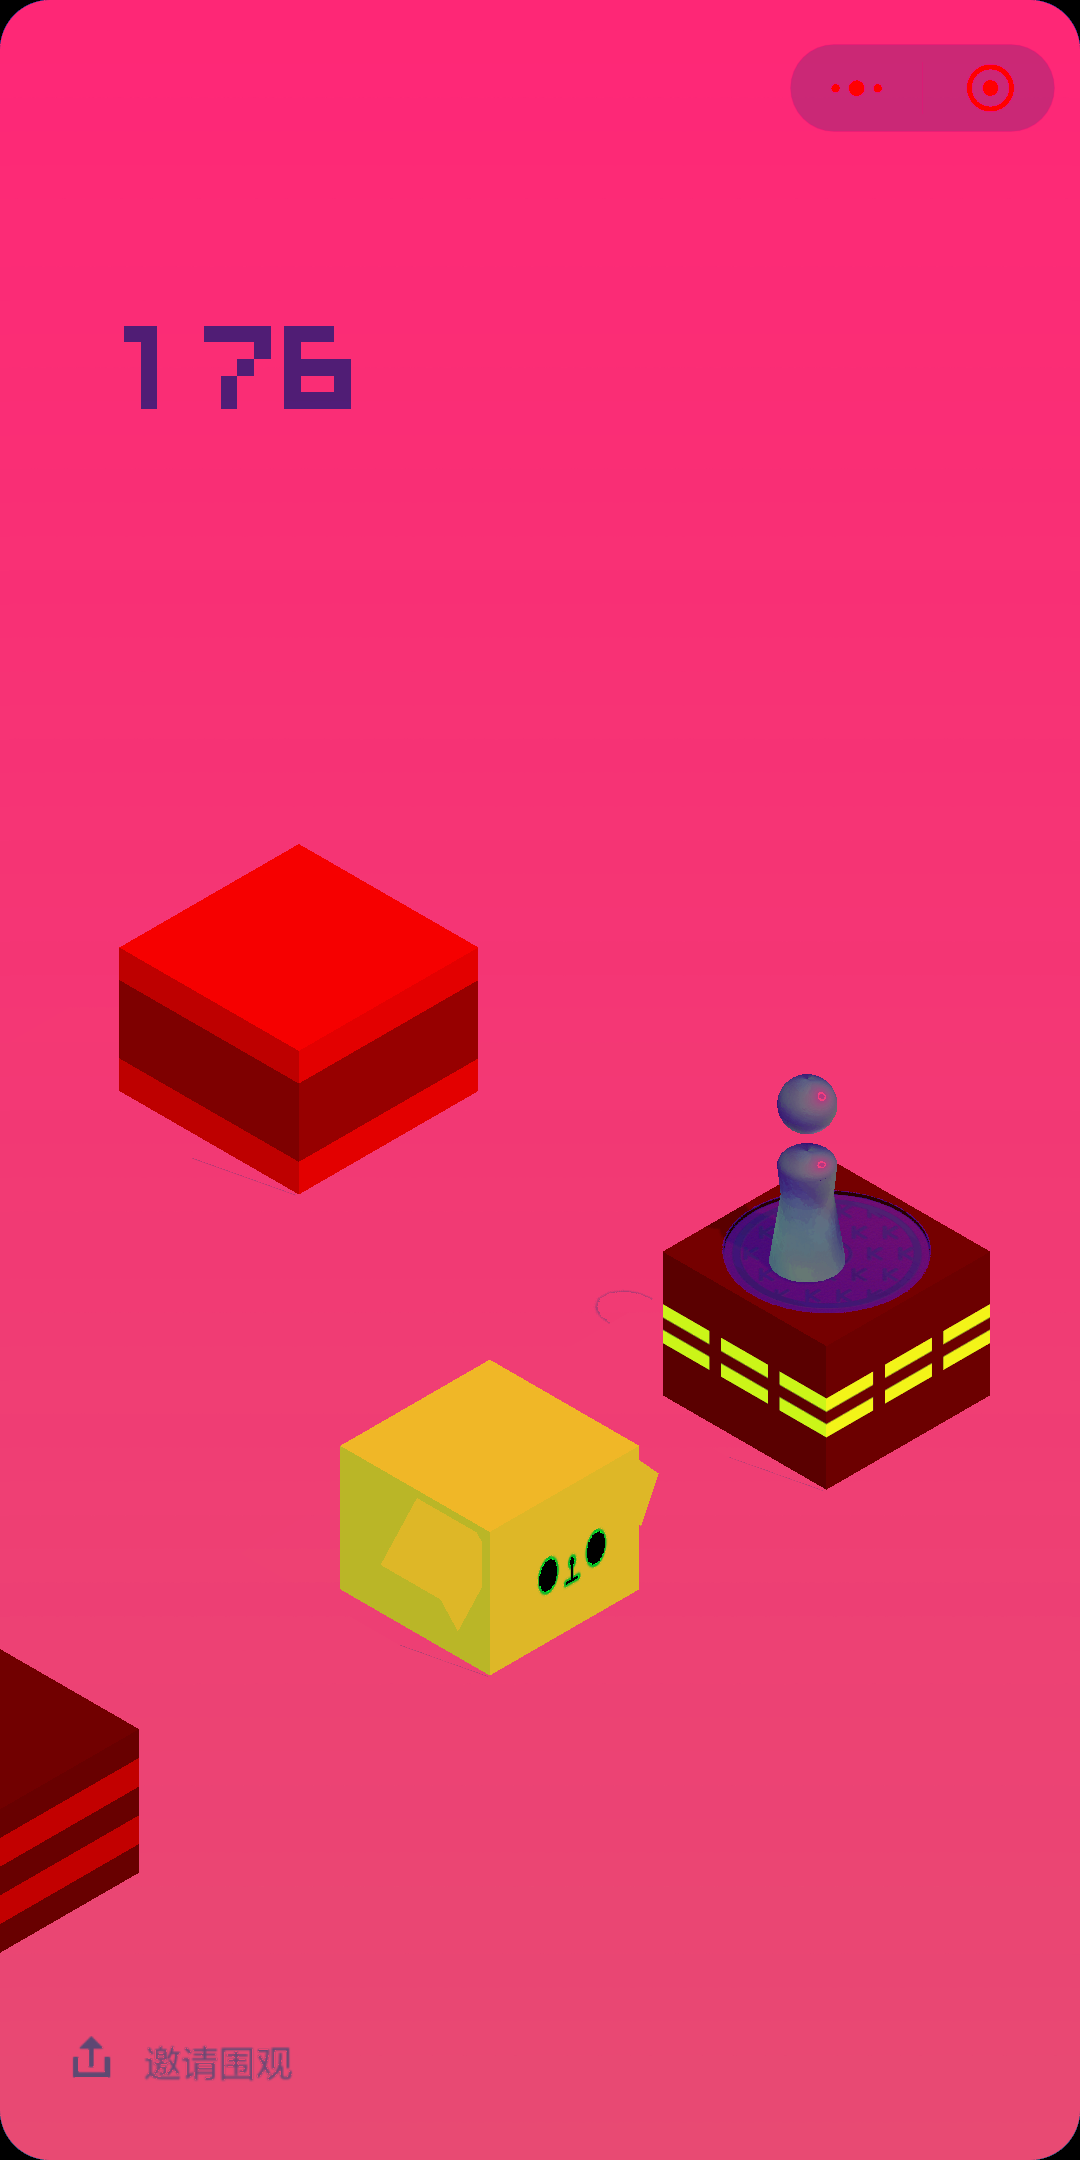
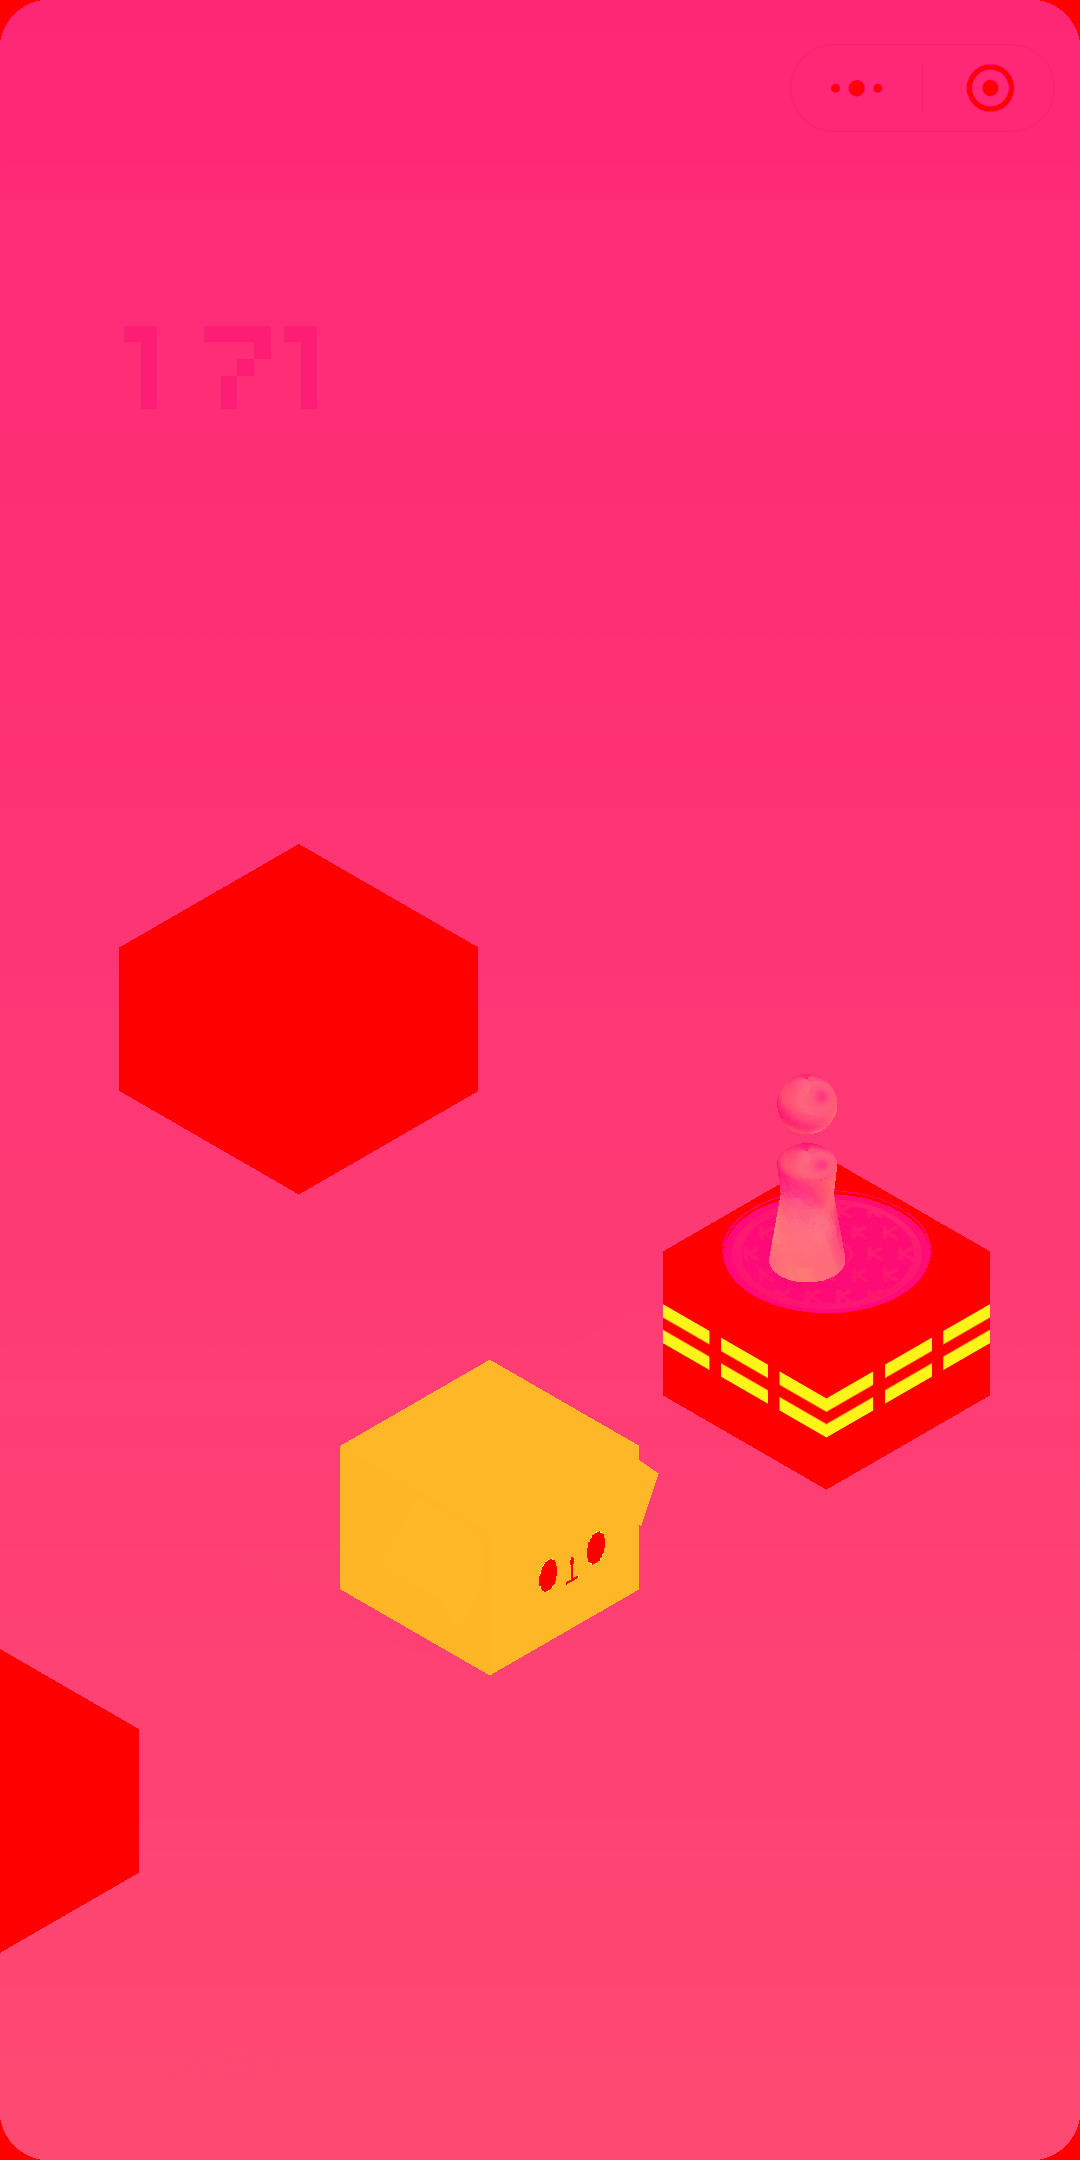
None

diff --git a/DQN.py b/DQN.py
@@ -1,73 +1,51 @@
 import cv2
 import numpy as np
-# import torch
-# import keras
 from PIL import Image
 
-pic1 = np.asarray(Image.open('./train_data/091749.png'))
-pic2 = np.asarray(Image.open('./train_data/091755.png'))
-y, x = pic1.shape[:2]
 
-del_shade = cv2.cvtColor(pic1, cv2.COLOR_RGB2HSV)  # 转成HSV
+def save_pic(pic,n):
+    pic1 = pic
+    del_shade = cv2.cvtColor(pic1, cv2.COLOR_RGB2HSV)  # 转成HSV
 
-i = 0
-for r in del_shade:
-    # 由于颜色是从上到下渐变的,而同一行的背景色不变,因此对每一行求众数,即背景色
-    # 通过观察,阴影的明度(V)大概是背景的0.68~0.72倍,通过这个方法去除阴影
-    # 这段应该能修一下
-    temp = np.argmax(np.bincount(r[:, 2]))
-    k = 0
-    for j in r[:, 2]:
-        if temp * 0.72 >= j >= temp * 0.68:
-            del_shade[i][k][2] = temp
-        k += 1
-    i += 1
+    i = 0
+    for r in del_shade:
+        # 由于颜色是从上到下渐变的,而同一行的背景色不变,因此对每一行求众数,即背景色
+        # 通过观察,阴影的明度(V)大概是背景的0.68~0.72倍,通过这个方法去除阴影
+        # 这段应该能修一下
+        temp = np.argmax(np.bincount(r[:, 2]))
+        k = 0
+        del_shade[:, :, 2] = np.where((temp * 0.71 < r[:, 2]) & (r[:, 2] < temp * 0.69), r[:, 2], temp)
+        '''
+        # 只是之前的代码,和上面那一句难道不等价吗?
+        for j in r[:, 2]:
+            if temp * 0.71 >= j >= temp * 0.69:
+                del_shade[i][k][2] = temp
+            k += 1
+        i += 1
+        '''
+    gray = cv2.cvtColor(del_shade, cv2.COLOR_HSV2RGB)
+    gray = cv2.cvtColor(gray, cv2.COLOR_RGB2GRAY)
+    '''
+    # 这是之前用于 将上下相连的颜色平均,为去除渐变背景做准备 的
+    ke1 = np.array([[0, 0, 1, 0, 0],
+                    [0, 0, 1, 0, 0],
+                    [0, 0, -4, 0, 0],
+                    [0, 0, 1, 0, 0],
+                    [0, 0, 1, 0, 0]])
+    '''
+    ke1 = np.array([[0,-1,0],
+                    [-1,4,-1],
+                    [0,-1,0]])
 
-cv2.imwrite('1del_shade.png', del_shade)
+    filter2D = cv2.filter2D(gray, -1, ke1)
+    filter2D = cv2.dilate(filter2D, None, iterations=1)  # 膨胀
 
-gray = cv2.cvtColor(del_shade, cv2.COLOR_HSV2RGB)
-gray = cv2.cvtColor(gray, cv2.COLOR_RGB2GRAY)
-cv2.imwrite('2gray.png', gray)
+    _, filter2D = cv2.threshold(filter2D, 10, 255, cv2.THRESH_BINARY)  # 经测定 阈值10就差不多了
+    filter2D = Image.fromarray(filter2D)
+    filter2D = filter2D.resize((108, 192), Image.ANTIALIAS)
+    filter2D = filter2D.crop((4, 50, 104, 150))
+    filter2D.save('D:\\Documents\\GitHub\\LetsJump\\train_data\\%s.png' % n)
 
-ke1 = np.array([[0, 0, 1, 0, 0],
-                [0, 0, 1, 0, 0],
-                [0, 0, -4, 0, 0],
-                [0, 0, 1, 0, 0],
-                [0, 0, 1, 0, 0]])
-# 通过这个卷积核,将上下相连的颜色平均,为去除渐变背景做准备
-filter2D = cv2.filter2D(gray, -1, ke1)
 
-filter2D = cv2.dilate(filter2D, None, iterations=1)  # 膨胀
-_, filter2D = cv2.threshold(filter2D, 10, 255, cv2.THRESH_BINARY)  # 经测定 阈值10就差不多了
-
-cv2.imwrite('3filter2D.png', filter2D)
-
-image, contours, _ = cv2.findContours(filter2D, cv2.RETR_EXTERNAL, cv2.CHAIN_APPROX_NONE)  # 找轮廓
-print('contours:', len(contours))
-'''
-# 这一段原来是用来寻找最大面积的最小轮廓矩形
-
-bigest_area = 0
-bigest = contours[0]
-for c in contours:
-    x, y, w, h = cv2.boundingRect(c)
-    area = w * h
-    if area>bigest_area:
-        bigest_area = area
-        ret = cv2.minAreaRect(c)
-        box = cv2.boxPoints(ret)
-        box = np.int0(box)
-        area = w * h
-        bigest = [box]
-    ret = cv2.minAreaRect(c)
-    box = cv2.boxPoints(ret)
-    box = np.int0(box)
-    #cv2.drawContours(pic1, [box], -1, (255, 255, 0), 3)
-#cv2.drawContours(pic1, bigest, -1, (255, 255, 0), 3)
-#pic1 = cv2.putText(pic1, str(bigest_area), (x, y), cv2.FONT_HERSHEY_SIMPLEX, 1, (255, 0, 0), 2)
-
-'''
-
-cv2.drawContours(pic1, contours, -1, (128, 128, 128), 2)  # 这一段突然就只能画出来白色的线了
-
-cv2.imwrite('5drawContours.png', pic1)
+if __name__ == 'main':
+    save_pic(cv2.imread('0.png'), 0)

diff --git a/wechat_jump_auto.py b/wechat_jump_auto.py
@@ -9,7 +9,8 @@ from PIL import Image, ImageDraw
 import random
 import json
 import re
-
+import DQN
+import numpy as np
 
 # === 思路 ===
 # 核心：每次落稳之后截图，根据截图算出棋子的坐标和下一个块顶面的中点坐标，
@@ -333,19 +334,25 @@ def main():
 
     dump_device_info()
     check_adb()
+    n = 0
     while True:
         pull_screenshot()
         im = Image.open('./autojump.png')
         # 获取棋子和 board 的位置
+
         piece_x, piece_y, board_x, board_y = find_piece_and_board(im)
         ts = int(time.time())
         print(ts, piece_x, piece_y, board_x, board_y)
         set_button_position(im)
         jump(math.sqrt((board_x - piece_x) ** 2 + (board_y - piece_y) ** 2))
-        save_debug_creenshot(ts, im, piece_x, piece_y, board_x, board_y)
-        backup_screenshot(ts)
-        time.sleep(random.uniform(1.2, 1.4))   # 为了保证截图的时候应落稳了，多延迟一会儿
+        # save_debug_creenshot(ts, im, piece_x, piece_y, board_x, board_y)
+        # backup_screenshot(ts)
+        DQN.save_pic(np.asarray(im), str(n))
 
+        with open('time.txt','a+') as f:
+            f.write('%d,%f' % (n, math.sqrt((board_x - piece_x) ** 2 + (board_y - piece_y) ** 2)))
+        time.sleep(random.uniform(1.2, 1.4))  # 为了保证截图的时候应落稳了，多延迟一会儿
+        n += 1
 
 if __name__ == '__main__':
     main()
